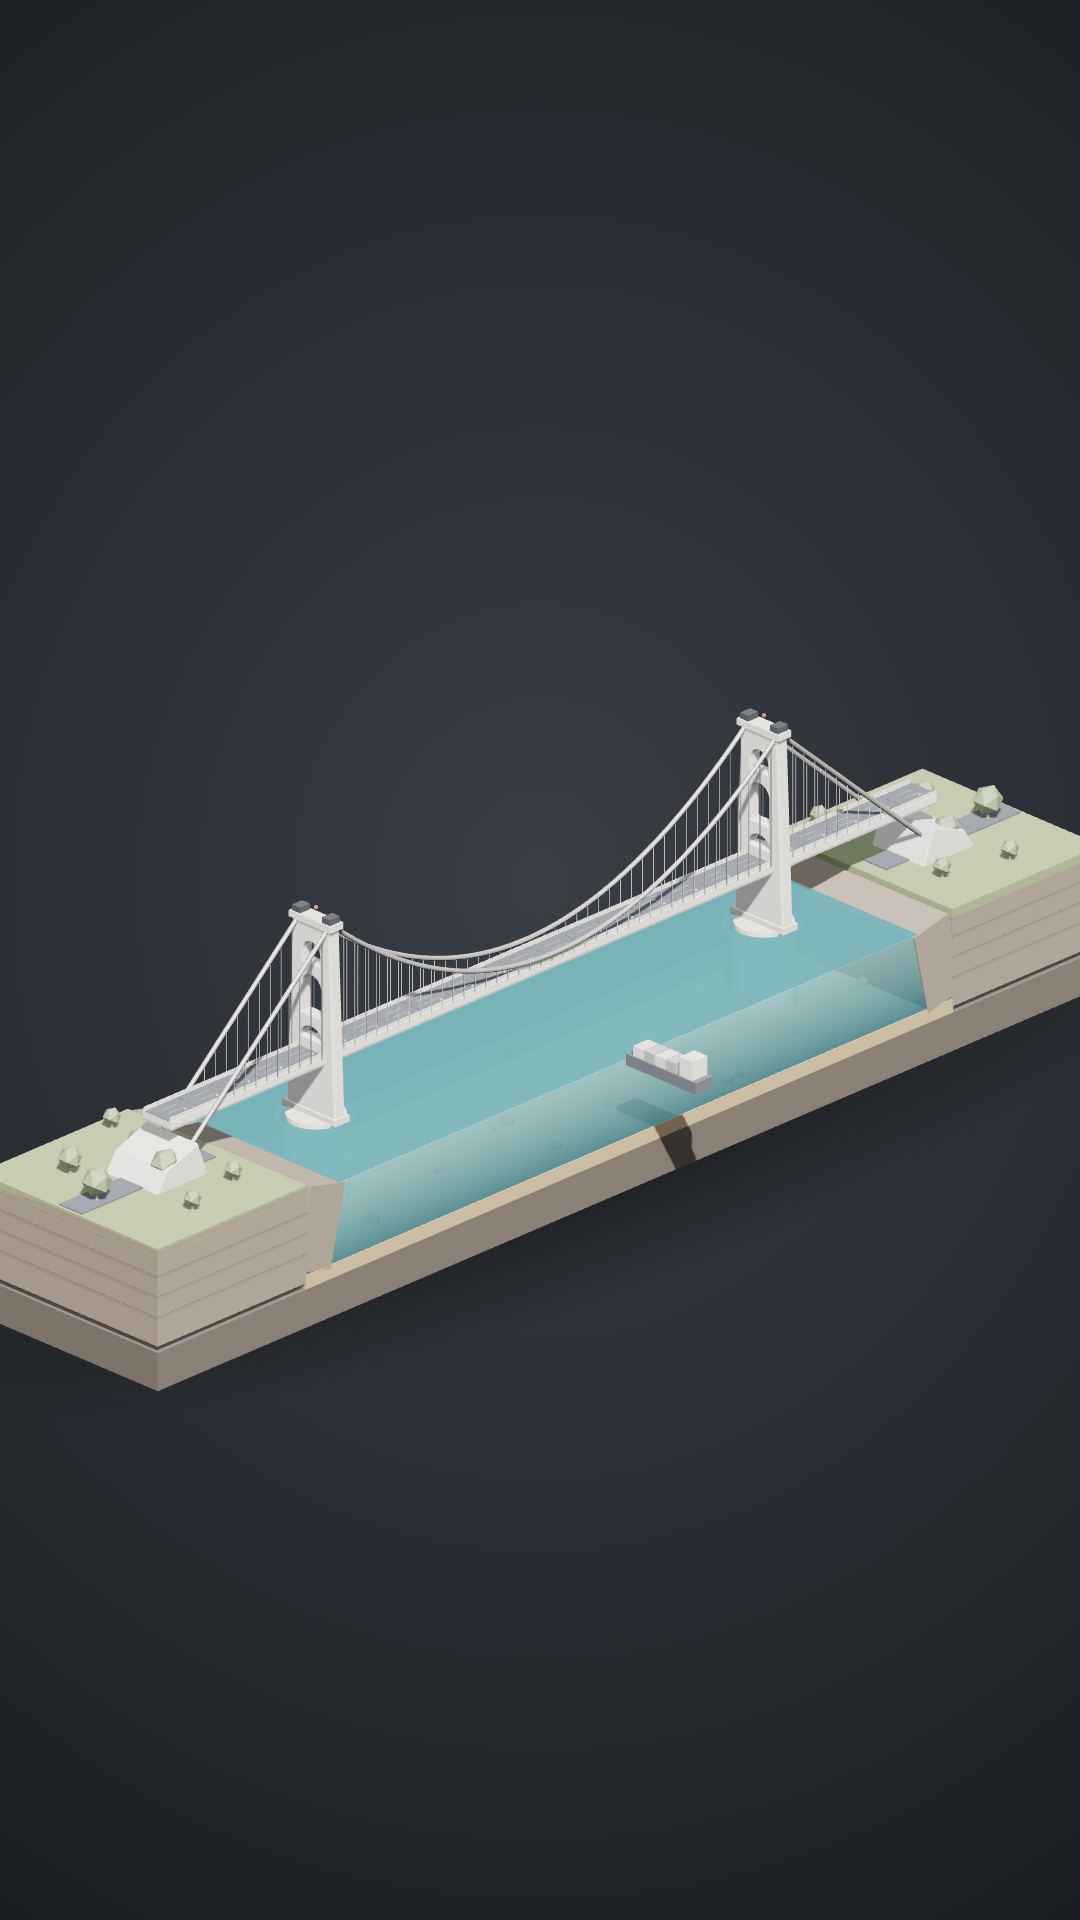
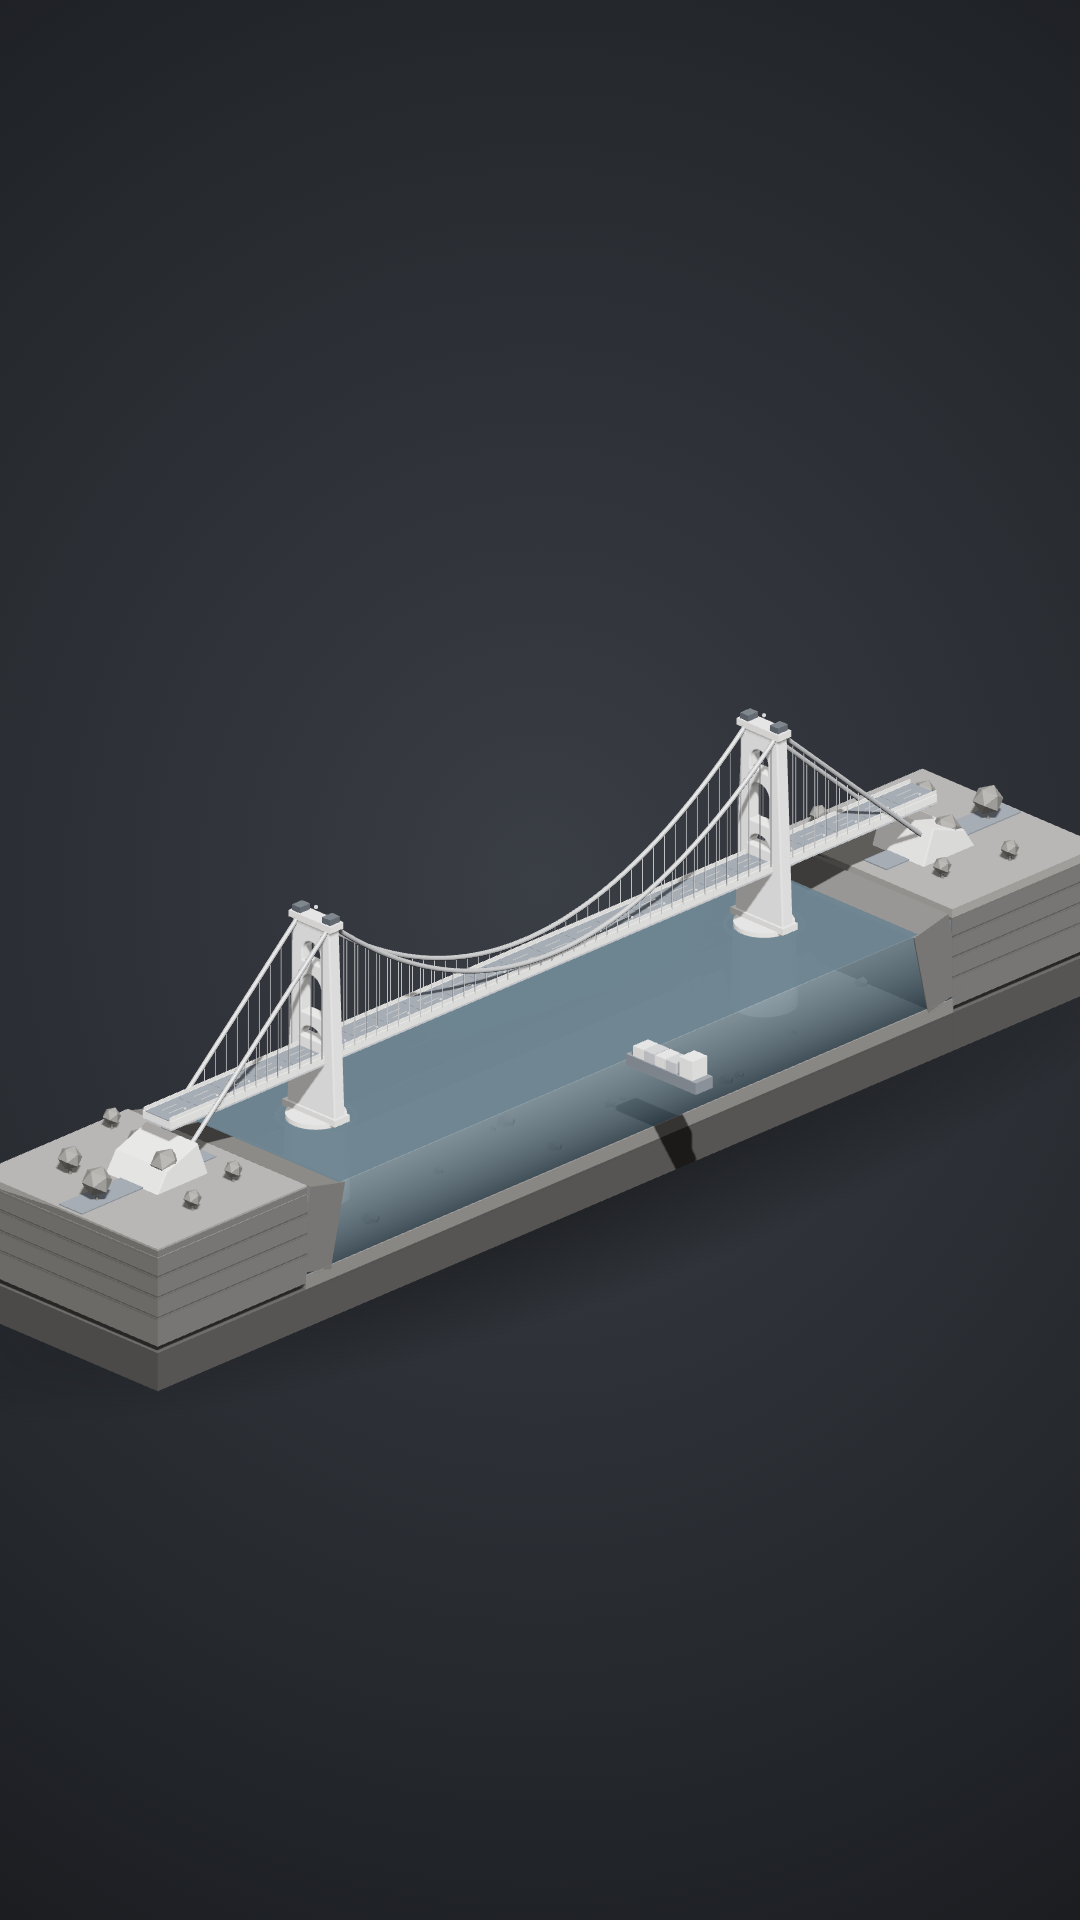
puente: paleta casi monocroma (blanco, grises y agua gris azulada)
Claude-Session: https://claude.ai/code/session_01FgZK386kKeQpy1Cb9CVWWu

Changed region(s): [[0.0, 0.4062, 1.0, 0.75]]

diff --git a/quiz-video/animado/puente/iso.js b/quiz-video/animado/puente/iso.js
@@ -9,8 +9,8 @@
   const scene = new THREE.Scene();
   const FR = 900;                                   // mitad de la altura visible (zoom)
   const cam = new THREE.OrthographicCamera(-FR * W / H, FR * W / H, FR, -FR, -6000, 6000);
-  scene.add(new THREE.HemisphereLight(0xdfe6ee, 0x4a4540, 0.5));
-  const sol = new THREE.DirectionalLight(0xfff1e0, 1.5); sol.position.set(-700, 1300, 900); sol.castShadow = true;
+  scene.add(new THREE.HemisphereLight(0xe6e6e6, 0x4a4a4a, 0.5));
+  const sol = new THREE.DirectionalLight(0xffffff, 1.5); sol.position.set(-700, 1300, 900); sol.castShadow = true;
   sol.shadow.mapSize.set(2048, 2048); Object.assign(sol.shadow.camera, { left: -1300, right: 1300, top: 1000, bottom: -1000, near: 10, far: 4000 }); sol.shadow.radius = 6; sol.shadow.bias = -0.0005;
   scene.add(sol); scene.add(sol.target);
   const M = (c, o = {}) => new THREE.MeshStandardMaterial(Object.assign({ color: c, roughness: 0.75, metalness: 0.0 }, o));
@@ -21,7 +21,7 @@
   // ---------------- medidas
   const SPAN = 900, TX = SPAN / 2, TH = 300, DECK = 96, LEN = 1300, D = 360, PROF = 130, LAND = 300;
   const ANCLA = LEN / 2 + 120;
-  const C = { blanco: 0xf3f1ed, hueso: 0xe7e3dc, gris: 0x8d939b, pizarra: 0x3d434c, arena: 0xa8875a, roca: 0x6b5d50, rocaO: 0x3f3731, hierba: 0x6c7a4c, agua: 0x1f5c6b, acento: 0xef5b3b };
+  const C = { blanco: 0xf3f1ed, hueso: 0xe7e3dc, gris: 0x8d939b, pizarra: 0x3d434c, arena: 0x3b3a37, roca: 0x2f2e2c, rocaO: 0x1c1b1a, hierba: 0x52504c, agua: 0x22303a, acento: 0xef5b3b };
 
   // ---------------- maqueta: bloques de tierra con capas, fondo marino y agua
   for (const s of [-1, 1]) {
@@ -29,15 +29,15 @@
     base.add(caja(LAND, 60, D, M(C.rocaO), cx, -PROF - 50, 0));
     base.add(caja(LAND, PROF + 20, D, M(C.roca), cx, -PROF / 2 - 10 + 10, 0));
     base.add(caja(LAND, 14, D, M(C.hierba), cx, 6, 0));
-    for (const y of [-30, -62, -94]) base.add(caja(LAND + 1, 2, D + 1, M(0x4f453c), cx, y, 0));
+    for (const y of [-30, -62, -94]) base.add(caja(LAND + 1, 2, D + 1, M(0x1f1e1c), cx, y, 0));
     base.add(caja(LAND - 30, 2, 46, M(C.pizarra, { roughness: 0.9 }), cx + s * 10, 14, 0));
     // talud hacia el agua
     const t = S(new THREE.Mesh(new THREE.BoxGeometry(70, PROF, D), M(C.roca))); t.position.set(s * (LEN / 2 - 30), -PROF / 2 + 2, 0); t.rotation.z = s * 0.22; base.add(t);
     // árboles discretos
     for (let k = 0; k < 7; k++) {
       const tr = new THREE.Group(); const h = 30 + (k % 3) * 10;
-      tr.add(S(new THREE.Mesh(new THREE.CylinderGeometry(2.5, 3, 12, 6), M(0x8a7a66))));
-      const cop = S(new THREE.Mesh(new THREE.IcosahedronGeometry(h * 0.45, 0), M(0x6f7f58, { flatShading: true }))); cop.position.y = h * 0.6; tr.add(cop);
+      tr.add(S(new THREE.Mesh(new THREE.CylinderGeometry(2.5, 3, 12, 6), M(0x3a3936))));
+      const cop = S(new THREE.Mesh(new THREE.IcosahedronGeometry(h * 0.45, 0), M(0x45433f, { flatShading: true }))); cop.position.y = h * 0.6; tr.add(cop);
       tr.position.set(s * (LEN / 2 + 60 + (k * 37) % 220), 14, -D / 2 + 30 + ((k * 91) % (D - 60))); base.add(tr);
     }
   }
@@ -45,11 +45,11 @@
   base.add(caja(LEN, 22, D, M(C.arena), 0, -PROF - 9, 0));
   for (let k = 0; k < 30; k++) { const p = S(new THREE.Mesh(new THREE.DodecahedronGeometry(5 + (k % 4) * 3, 0), M(C.roca, { flatShading: true }))); p.position.set(-LEN / 2 + 40 + (k * 173) % (LEN - 80), -PROF + 2, -D / 2 + 20 + (k * 61) % (D - 40)); base.add(p); }
   const aguaMat = new THREE.MeshStandardMaterial({ color: C.agua, transparent: true, opacity: 0.8, roughness: 0.2, metalness: 0.0, depthWrite: false });
-  const ag = new THREE.BoxGeometry(LEN - 4, PROF - 4, D - 4); const colA = [], cTop = new THREE.Color(0x3d8fa0), cBot = new THREE.Color(0x0f3540);
+  const ag = new THREE.BoxGeometry(LEN - 4, PROF - 4, D - 4); const colA = [], cTop = new THREE.Color(0x2f404b), cBot = new THREE.Color(0x0a1015);
   for (let k = 0; k < ag.attributes.position.count; k++) { const y = ag.attributes.position.getY(k); const c = cBot.clone().lerp(cTop, (y + PROF / 2) / PROF); colA.push(c.r, c.g, c.b); }
   ag.setAttribute('color', new THREE.Float32BufferAttribute(colA, 3)); aguaMat.vertexColors = true; aguaMat.color.set(0xffffff);
   const agua = new THREE.Mesh(ag, aguaMat); agua.position.set(0, -PROF / 2 - 4, 0); agua.renderOrder = 10; base.add(agua);
-  const supMat = new THREE.MeshStandardMaterial({ color: 0x1a5866, transparent: true, opacity: 0.78, roughness: 0.05, metalness: 0.1, depthWrite: false });
+  const supMat = new THREE.MeshStandardMaterial({ color: 0x1e2c35, transparent: true, opacity: 0.88, roughness: 0.05, metalness: 0.1, depthWrite: false });
   const sup = new THREE.Mesh(new THREE.PlaneGeometry(LEN - 4, D - 4, 1, 1), supMat); sup.rotation.x = -Math.PI / 2; sup.position.y = -5; sup.renderOrder = 11; base.add(sup);
   // líneas de oleaje suaves en la superficie
   const olas = new THREE.Group(); for (let k = 0; k < 26; k++) { const o = new THREE.Mesh(new THREE.PlaneGeometry(40 + (k % 5) * 18, 2), new THREE.MeshBasicMaterial({ color: 0xffffff, transparent: true, opacity: 0.45, depthWrite: false })); o.rotation.x = -Math.PI / 2; o.position.set(-LEN / 2 + 60 + (k * 211) % (LEN - 120), -4.5, -D / 2 + 20 + (k * 47) % (D - 40)); olas.add(o); } base.add(olas);
@@ -87,7 +87,7 @@
       hueco.position.set(0, (y0 + y1) / 2, 0); hueco.rotation.y = Math.PI / 2; g.add(hueco); huecos.push(hueco);
     }
     // luz roja de aviso arriba
-    const b = new THREE.Mesh(new THREE.SphereGeometry(3, 10, 10), new THREE.MeshBasicMaterial({ color: 0xff5040 })); b.position.y = TH + 24; g.add(b);
+    const b = new THREE.Mesh(new THREE.SphereGeometry(3, 10, 10), new THREE.MeshBasicMaterial({ color: 0xf3f1ed })); b.position.y = TH + 24; g.add(b);
     g.position.x = x; base.add(g); torres.push(g); return g;
   }
   torre(-TX); torre(TX);
@@ -102,7 +102,7 @@
     const asf = caja(LD - 0.6, 1.2, 46, M(C.pizarra, { roughness: 0.9 }), 0, 6.6, 0); d.add(asf);
     for (const z of [-7, 7]) { const linea = new THREE.Mesh(new THREE.BoxGeometry(LD * 0.45, 0.4, 1), new THREE.MeshBasicMaterial({ color: 0xe9e6df })); linea.position.set(0, 7.4, z); d.add(linea); }
     for (const z of [-26, 26]) { d.add(caja(LD - 0.6, 5, 1.6, M(C.hueso), 0, 9.5, z)); }
-    const far = new THREE.Mesh(new THREE.SphereGeometry(1.8, 8, 8), new THREE.MeshBasicMaterial({ color: 0xfff2cc })); far.position.set(0, 16, 25); d.add(far);
+    const far = new THREE.Mesh(new THREE.SphereGeometry(1.8, 8, 8), new THREE.MeshBasicMaterial({ color: 0xf3f1ed })); far.position.set(0, 16, 25); d.add(far);
     d.position.set(-ANCLA + LD * (i + 0.5), DECK, 0); base.add(d); dovelas.push(d);
   }
   // ---------------- cables y péndolas
